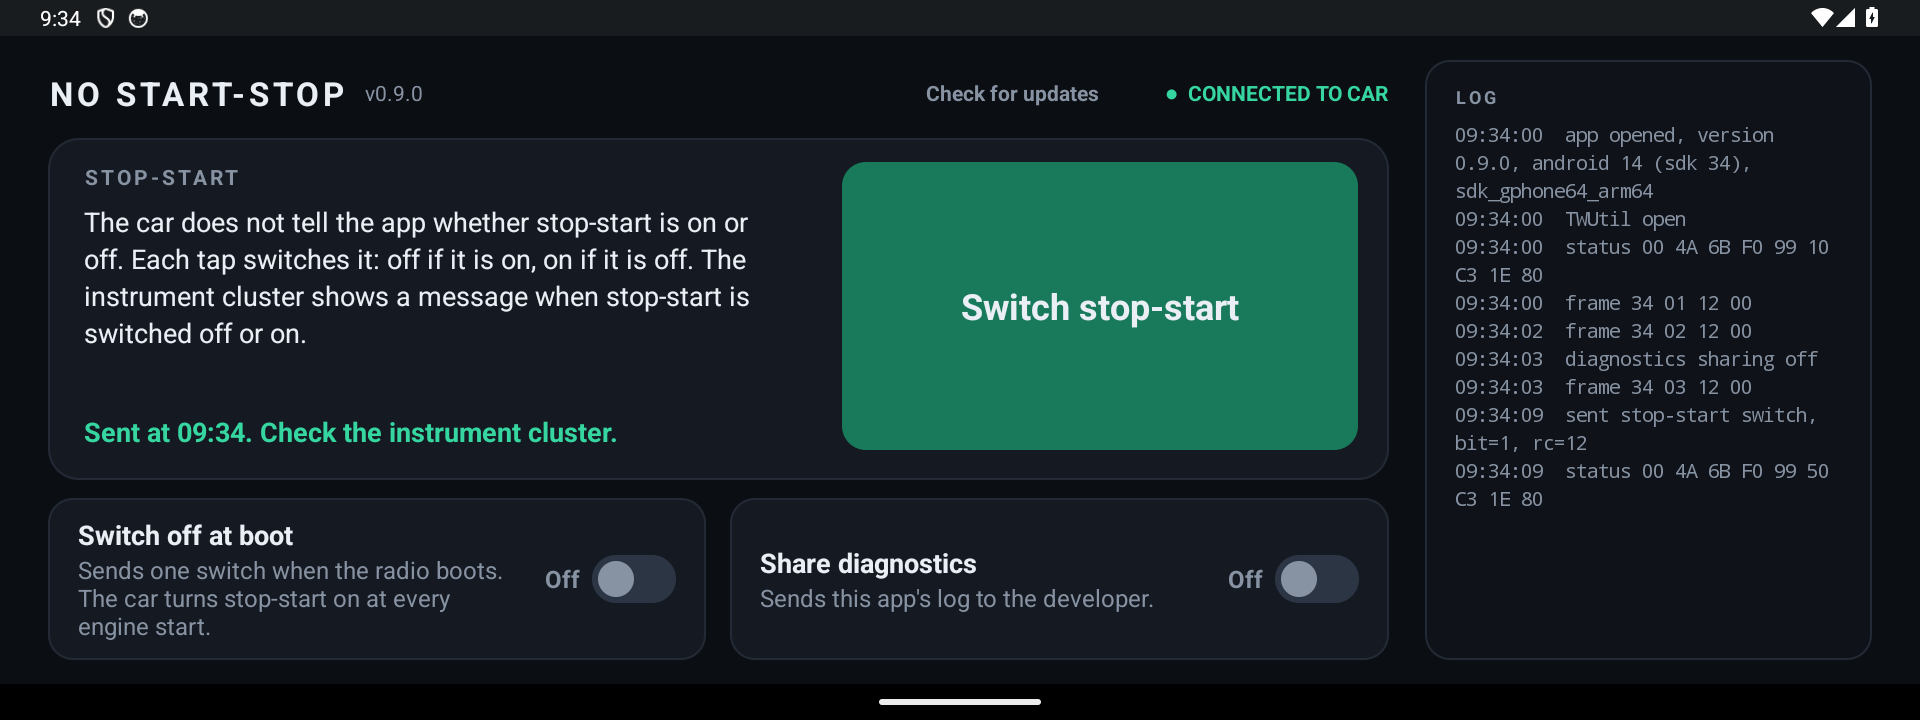
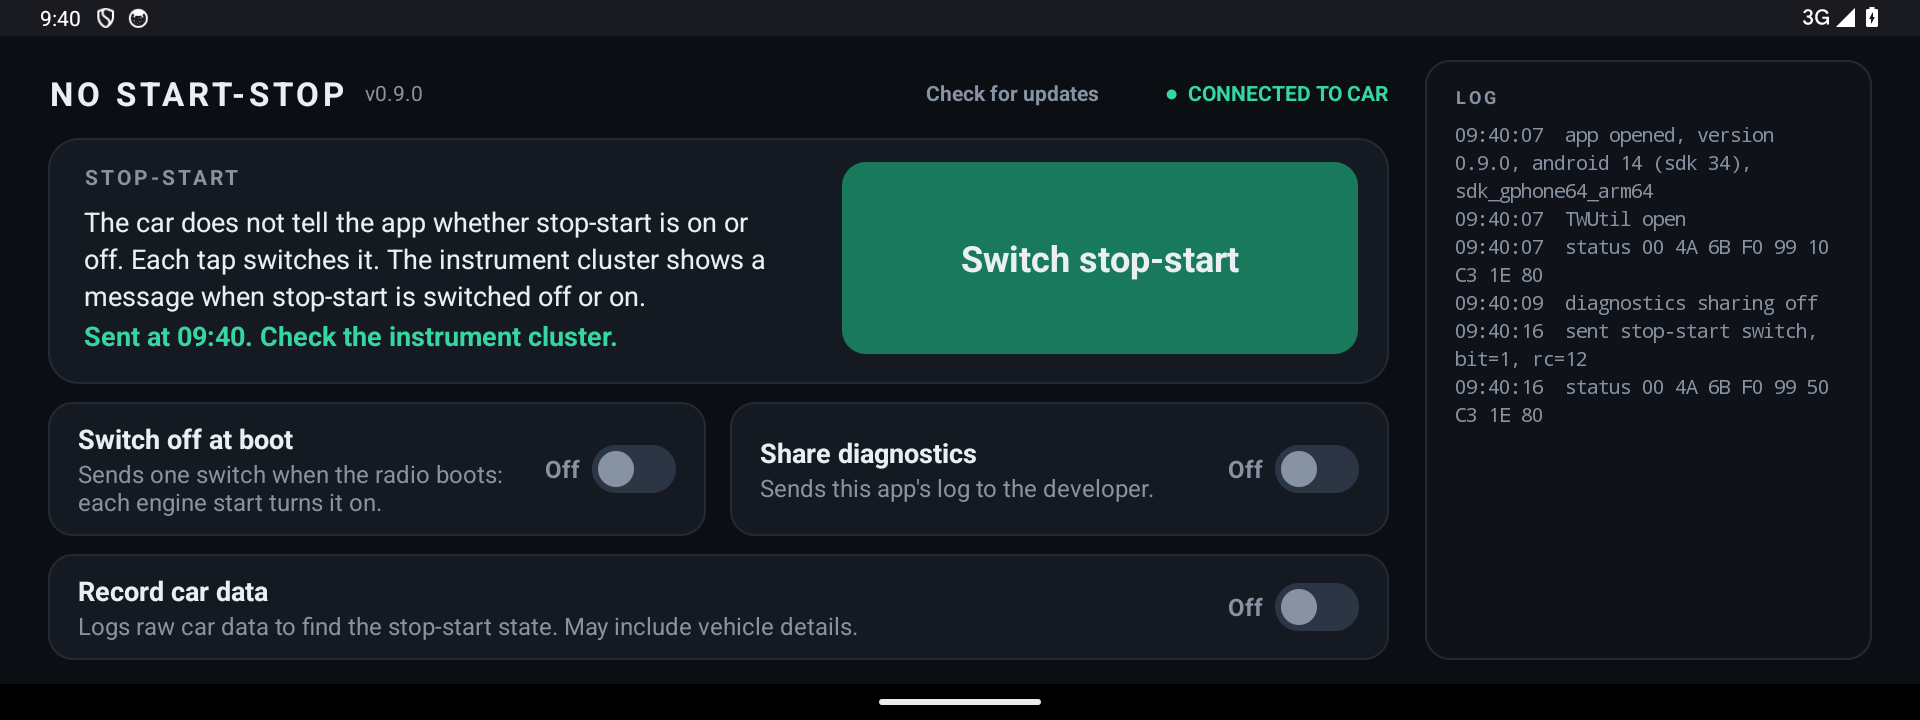
Record unknown CAN frames only when the user turns on Record car data, with caps

diff --git a/src/com/furgo/nostartstop/MainActivity.java b/src/com/furgo/nostartstop/MainActivity.java
@@ -70,6 +70,7 @@ public class MainActivity extends Activity implements CanBox.Listener {
     private Toggle bootSwitch;
     private boolean askingAboutDiagnostics;
     private Toggle telemetrySwitch;   // null when the build has no PostHog key
+    private Toggle captureSwitch;
     private TextView logView;
     private ScrollView logScroll;
     private TextView feedback;
@@ -149,6 +150,7 @@ public class MainActivity extends Activity implements CanBox.Listener {
         log.clear();
         log.addAll(LogFile.tail(this, MAX_LOG));
         renderLog();
+        box.setCaptureFrames(Prefs.captureFrames(this));
         opened = box.open();
         if (!opened) link = LINK_DOWN;
         render();
@@ -317,6 +319,14 @@ public class MainActivity extends Activity implements CanBox.Listener {
         renderBoot();
     }
 
+    private void toggleCapture() {
+        boolean on = !Prefs.captureFrames(this);
+        Prefs.setCaptureFrames(this, on);
+        box.setCaptureFrames(on);
+        onLog(on ? "recording car data on" : "recording car data off");
+        renderBoot();
+    }
+
     private void toggleTelemetry() {
         setTelemetry(!Prefs.telemetry(this));
     }
@@ -423,6 +433,7 @@ public class MainActivity extends Activity implements CanBox.Listener {
 
     private void renderBoot() {
         renderSwitch(bootSwitch, Prefs.applyAtBoot(this));
+        renderSwitch(captureSwitch, Prefs.captureFrames(this));
         if (telemetrySwitch != null) renderSwitch(telemetrySwitch, Prefs.telemetry(this));
     }
 
@@ -484,7 +495,7 @@ public class MainActivity extends Activity implements CanBox.Listener {
         LinearLayout settings = new LinearLayout(this);
         settings.setOrientation(LinearLayout.HORIZONTAL);
         bootSwitch = addSetting(settings, "Switch off at boot",
-                "Sends one switch when the radio boots. The car turns stop-start on at every engine start.",
+                "Sends one switch when the radio boots: each engine start turns it on.",
                 new View.OnClickListener() {
                     @Override
                     public void onClick(View v) {
@@ -504,6 +515,19 @@ public class MainActivity extends Activity implements CanBox.Listener {
         LinearLayout.LayoutParams settingsLp = new LinearLayout.LayoutParams(-1, -2);
         settingsLp.topMargin = dp(12);
         left.addView(settings, settingsLp);
+
+        LinearLayout capture = new LinearLayout(this);
+        captureSwitch = addSetting(capture, "Record car data",
+                "Logs raw car data to find the stop-start state. May include vehicle details.",
+                new View.OnClickListener() {
+                    @Override
+                    public void onClick(View v) {
+                        toggleCapture();
+                    }
+                });
+        LinearLayout.LayoutParams captureLp = new LinearLayout.LayoutParams(-1, -2);
+        captureLp.topMargin = dp(12);
+        left.addView(capture, captureLp);
 
         LinearLayout logCard = new LinearLayout(this);
         logCard.setOrientation(LinearLayout.VERTICAL);
@@ -542,7 +566,7 @@ public class MainActivity extends Activity implements CanBox.Listener {
         words.addView(t);
 
         TextView about = text("The car does not tell the app whether stop-start is on or off. "
-                + "Each tap switches it: off if it is on, on if it is off. "
+                + "Each tap switches it. "
                 + "The instrument cluster shows a message when stop-start is switched off or on.", 18, TEXT, false);
         about.setLineSpacing(0, 1.15f);
         LinearLayout.LayoutParams aboutLp = new LinearLayout.LayoutParams(-1, -2);

diff --git a/src/com/furgo/nostartstop/CanBox.java b/src/com/furgo/nostartstop/CanBox.java
@@ -21,7 +21,9 @@ final class CanBox {
     }
 
     private static final String TAG = "NoStartStop";
-    private static final int MAX_OTHER_FRAME_LINES = 20;
+    private static final int MAX_LINES_PER_FRAME_ID = 20;
+    private static final int MAX_FRAME_IDS = 64;
+    private static final int MAX_FRAME_LINES = 400;
     private static int instances;
 
     private final Listener listener;
@@ -29,7 +31,9 @@ final class CanBox {
     private TWUtil tw;
     private boolean shortFrameLogged;
     private byte[] lastFrame;
-    // Other frames are logged so the real stop-start state can be found in them later.
+    // Other frames are logged, only when the user opts in, so the real stop-start state can be found in them later.
+    private boolean captureFrames;
+    private int frameLines;
     private final Map<Integer, byte[]> otherFrames = new HashMap<Integer, byte[]>();
     private final Map<Integer, Integer> otherFrameLines = new HashMap<Integer, Integer>();
 
@@ -56,6 +60,7 @@ final class CanBox {
                 lastFrame = null;
                 otherFrames.clear();
                 otherFrameLines.clear();
+                frameLines = 0;
                 t.addHandler(tag, handler);
                 t.start();
                 tw = t;
@@ -88,6 +93,10 @@ final class CanBox {
         } catch (Throwable e) {
             log("close failed: " + e);
         }
+    }
+
+    void setCaptureFrames(boolean on) {
+        captureFrames = on;
     }
 
     void query() {
@@ -131,12 +140,14 @@ final class CanBox {
     }
 
     private void onOtherFrame(int id, byte[] b) {
-        if (Arrays.equals(b, otherFrames.get(id))) return;
-        otherFrames.put(id, b.clone());
+        if (!captureFrames || frameLines >= MAX_FRAME_LINES) return;
         Integer lines = otherFrameLines.get(id);
+        if (lines == null && otherFrameLines.size() >= MAX_FRAME_IDS) return;
         int n = lines == null ? 0 : lines;
-        if (n >= MAX_OTHER_FRAME_LINES) return;
+        if (n >= MAX_LINES_PER_FRAME_ID || Arrays.equals(b, otherFrames.get(id))) return;
+        otherFrames.put(id, b.clone());
         otherFrameLines.put(id, n + 1);
+        frameLines++;
         log("frame " + id + " " + hex(b));
     }
 

diff --git a/src/com/furgo/nostartstop/Prefs.java b/src/com/furgo/nostartstop/Prefs.java
@@ -9,6 +9,7 @@ final class Prefs {
     private static final String FILE = "prefs";
     private static final String APPLY_AT_BOOT = "apply_at_boot";
     private static final String TELEMETRY = "telemetry";
+    private static final String CAPTURE_FRAMES = "capture_frames";
     private static final String INSTALL_ID = "install_id";
 
     static boolean applyAtBoot(Context c) {
@@ -17,6 +18,15 @@ final class Prefs {
 
     static void setApplyAtBoot(Context c, boolean on) {
         c.getSharedPreferences(FILE, Context.MODE_PRIVATE).edit().putBoolean(APPLY_AT_BOOT, on).apply();
+    }
+
+    /** Off by default: unknown CAN frames may hold vehicle details, and the log can be shared. */
+    static boolean captureFrames(Context c) {
+        return c.getSharedPreferences(FILE, Context.MODE_PRIVATE).getBoolean(CAPTURE_FRAMES, false);
+    }
+
+    static void setCaptureFrames(Context c, boolean on) {
+        c.getSharedPreferences(FILE, Context.MODE_PRIVATE).edit().putBoolean(CAPTURE_FRAMES, on).apply();
     }
 
     /** False until the user has answered the first-launch question with yes. */

diff --git a/README.md b/README.md
@@ -18,7 +18,8 @@ The screenshots are from an emulator at 1920x720 with a simulated CAN box. On a 
 - **No on/off display**: the car does not report whether stop-start is on or off, so the app does not show it. The instrument cluster shows a message when stop-start is switched off or on; look there after a tap.
 - **Feedback**: the button shows "Sending…" until the CAN box echoes the command. The card then says "Sent at HH:mm. Check the instrument cluster.", or "No answer from the car." after 3 seconds without an echo. Taps while a command is pending are ignored, so a double tap does not switch it straight back.
 - **Switch off at boot**: off by default. When on, the app sends one switch command after the head unit boots, then stops. The car turns stop-start on at every engine start, so one switch turns it off. See [the limits](#switch-off-at-boot-limits).
-- **Log**: the commands sent, the CAN box frames and any errors.
+- **Record car data**: off by default. When on, the log also records the raw frames the CAN box passes on from the car, to help find where the car reports the real stop-start state. These frames may include vehicle details (for example the VIN, speed or position), so leave it off unless you are helping with that.
+- **Log**: the commands sent, the CAN box status frames and any errors.
 - **Check for updates**: downloads and installs the latest release when you ask for it.
 - **Share diagnostics**: asked on first launch, with a switch to change it later. Sends the app's log lines to the developer.
 
@@ -63,6 +64,8 @@ What is sent with each line:
 - the app version, the Android SDK level and the head unit's model name;
 - a random id created for this install, so lines from one head unit can be told apart. It is not tied to you or to the vehicle.
 
+The `frame …` lines with raw car data are only written to the log while **Record car data** is on, and only sent if **Share diagnostics** is on too. Switching **Record car data** off stops new lines; lines already in the log file stay there.
+
 Nothing is sent while the switch is off. Lines logged while the head unit is offline are kept (up to 500) and sent the next time a line is logged with a connection. Switching it off discards anything not sent yet and forgets the random id, so switching it on again starts with a new one.
 
 The switch only appears in builds made with a PostHog key. Release builds get it from the repository variables `POSTHOG_KEY` and `POSTHOG_HOST`; a local build has no key unless you set those environment variables for `build.sh`. The key is a public, write-only project key.
@@ -88,7 +91,7 @@ Each line has a date and time. Lines to look for:
 - `app opened, version …, android …`: app and Android version.
 - `TWUtil open` / `TWUtil unavailable: …`: whether the head unit's MCU link works.
 - `status 00 4A …`: the raw settings frame (id 56) from the CAN box, logged whenever it changes.
-- `frame <id> …`: any other CAN box frame, logged when it changes, at most 20 lines per frame id each time the app connects. These are kept to find where the car reports the real stop-start state.
+- `frame <id> …`: any other CAN box frame, only while **Record car data** is on. Logged when it changes, at most 20 lines per frame id, 64 frame ids and 400 lines in total each time the app connects. The boot service never records them.
 - `sent stop-start switch, bit=…, rc=…`: a switch command sent to the CAN box.
 - `boot: …`: what the boot service did, including whether the CAN box echoed the command.
 
@@ -191,7 +194,7 @@ These were read from the decompiled vendor app `com.tw.car` (`PsaRaiseSettingsAc
 ## Status
 
 - Tested on a real Jumpy head unit (Android 10). The switch command works: every command flips stop-start, and the instrument cluster shows a message each time.
-- The car's real stop-start state is not readable through the settings frame. The app logs the other CAN box frames (`frame …` lines) so it can be looked for later.
+- The car's real stop-start state is not readable through the settings frame. With **Record car data** on, the app logs the other CAN box frames (`frame …` lines) so it can be looked for.
 - "Permanently closed" does nothing on this van.
 
 ## Troubleshooting
